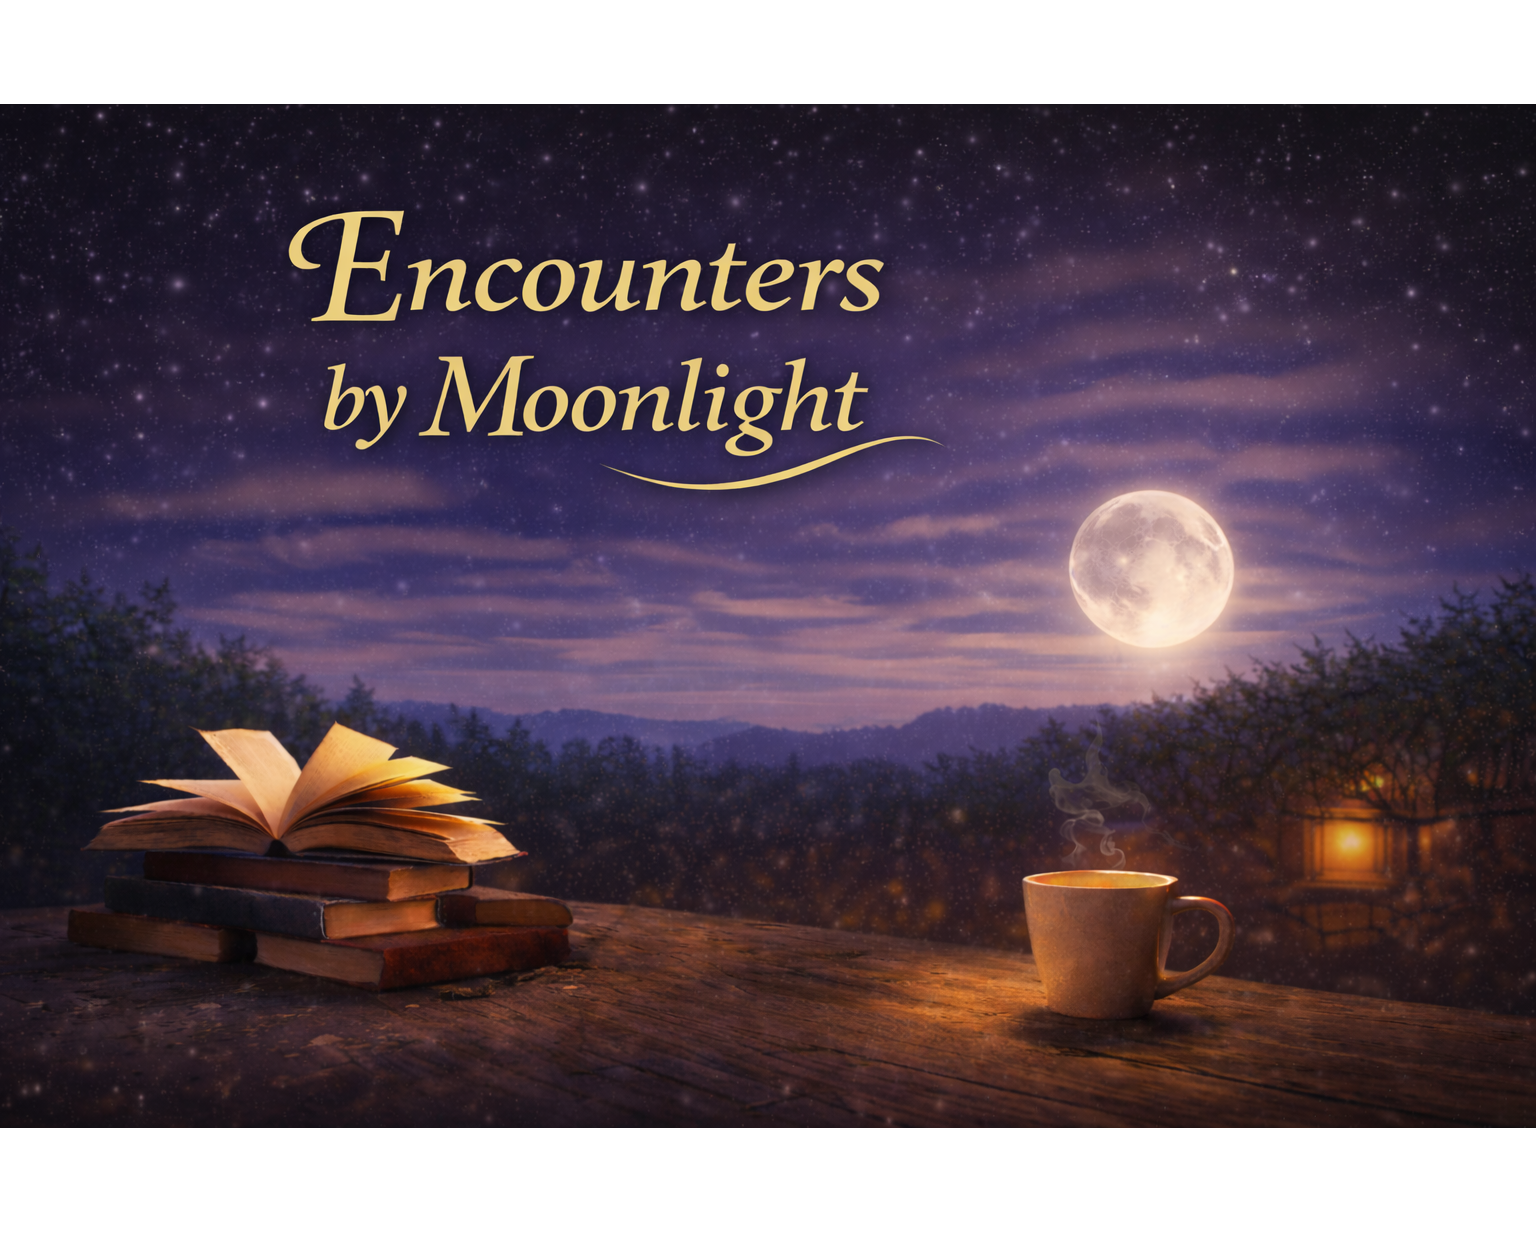
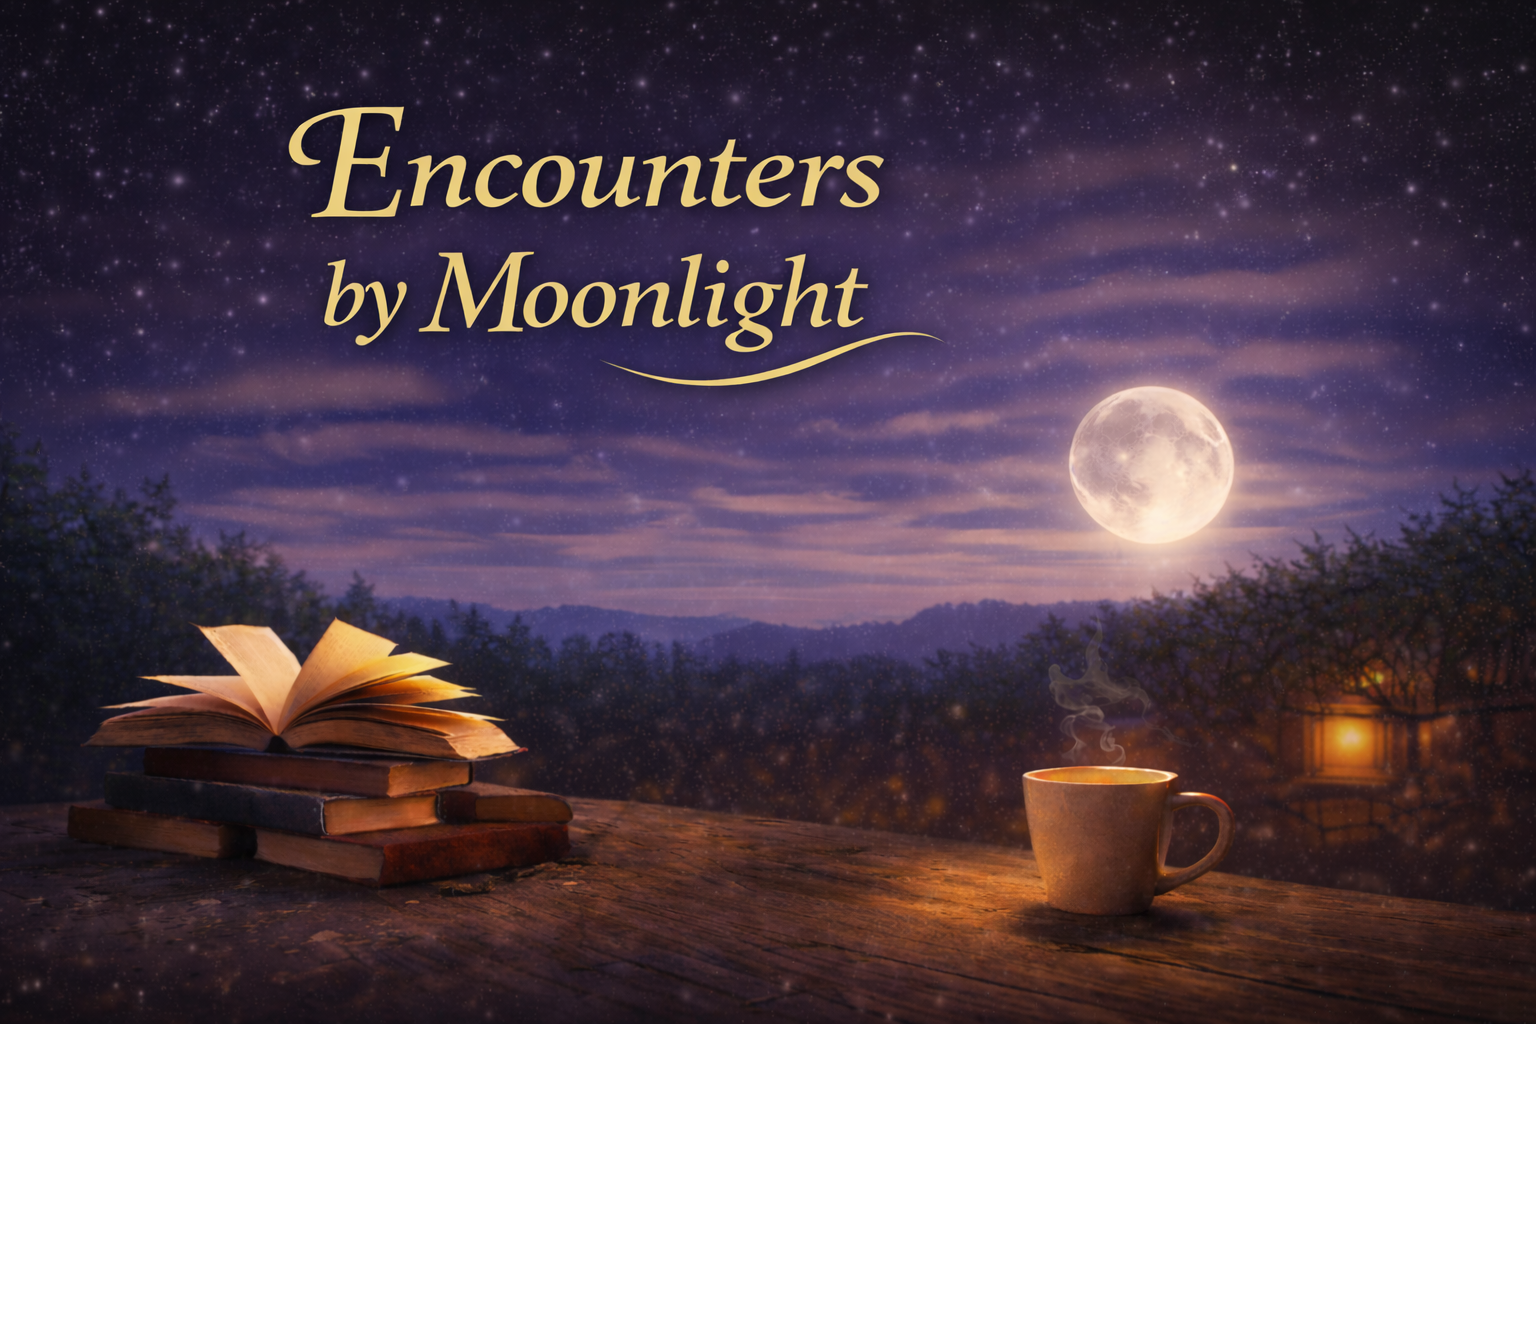
Add files via upload

diff --git a/public/livre-accueil-en.html b/public/livre-accueil-en.html
@@ -8,7 +8,6 @@
 <meta name="description" content="Encounters by Moonlight, a poetic novel by Simon Lero.">
 <link rel="canonical" href="https://simonlero.com/livre-accueil-en.html">
 
-
 <style>
 :root {
   --gold: #c9a24d;
@@ -36,7 +35,7 @@ body {
 }
 
 /* =========================
-   HERO — WEB (DESKTOP)
+   HERO
 ========================= */
 .hero {
   position: relative;
@@ -60,7 +59,7 @@ body {
 }
 
 /* =========================
-   OVERLAY TEXTE — WEB
+   OVERLAY TEXTE
 ========================= */
 .overlay {
   position: absolute;
@@ -71,46 +70,65 @@ body {
   align-items: flex-start;
   padding-left: 8%;
   padding-top: 56vh;
-  background: rgba(0,0,0,0.25);
+
+  background: linear-gradient(
+    to top,
+    rgba(0,0,0,0.55) 0%,
+    rgba(0,0,0,0.25) 35%,
+    rgba(0,0,0,0.05) 60%,
+    rgba(0,0,0,0) 100%
+  );
 }
 
 .overlay p {
-  margin-bottom: 12px;
+  margin-bottom: 14px;
   font-size: 20px;
-  line-height: 1.6;
-  max-width: 620px;
-  text-shadow: 0 1px 4px rgba(0,0,0,0.6);
+  line-height: 1.65;
+  max-width: 640px;
+  letter-spacing: 0.2px;
+  text-shadow: 0 2px 6px rgba(0,0,0,0.65);
 }
 
+/* =========================
+   CTA — CENTRÉ EN BAS
+========================= */
+.cta-wrapper {
+  position: absolute;
+  bottom: 70px;
+  left: 50%;
+  transform: translateX(-50%);
+  z-index: 50;
+}
 
-/* CTA — WEB + MOBILE */
 .cta-line {
-  margin-top: 28px;
   display: inline-flex;
   flex-direction: column;
   align-items: center;
   gap: 6px;
-  padding: 6px 0;
+  padding: 8px 0;
   color: var(--gold);
-  font-size: 19px;
-  letter-spacing: 1px;
+  font-size: 18px;
+  letter-spacing: 1.2px;
   text-decoration: none;
   border-top: 1px solid var(--gold);
   border-bottom: 1px solid var(--gold);
+  transition: opacity 0.3s ease, transform 0.3s ease;
 }
 
 .cta-line:hover {
-  opacity: 0.85;
+  opacity: 0.9;
+  transform: translateY(-1px);
 }
 
-/* CTA — 2e ligne */
 .cta-sub {
   font-size: 12px;
   letter-spacing: 0.8px;
-  opacity: 0.8;
+  opacity: 0.75;
 }
 
-/* LANG — COMMUN */
+/* =========================
+   LANG
+========================= */
 .lang {
   position: fixed;
   top: 18px;
@@ -124,9 +142,15 @@ body {
   font-weight: bold;
 }
 
+/* Ajustement image desktop */
+@media (min-width: 769px) {
+  .hero-img {
+    object-position: center 14%;
+  }
+}
 
 /* ======================================================
-   MOBILE — TOUT EST ICI / RIEN AILLEURS
+   MOBILE
 ====================================================== */
 @media (max-width: 768px) {
 
@@ -135,40 +159,36 @@ body {
   }
 
   .hero {
-    width: 100vw;
     height: 100svh;
   }
 
   .hero-img {
-    width: 100%;
-    height: 100%;
-    object-fit: cover;
     object-position: center 48%;
   }
 
   .overlay {
-    top: auto;
-    bottom: 100px;
-    left: 0;
-    right: 0;
     padding: 0 20px;
     align-items: center;
     text-align: center;
     justify-content: flex-end;
     background: none;
+    bottom: 160px;
   }
 
   .overlay p {
     font-size: 14.5px;
-    line-height: 1.4;
+    line-height: 1.45;
     margin-bottom: 6px;
     max-width: 100%;
     text-shadow: 0 1px 4px rgba(0,0,0,0.85);
   }
 
+  .cta-wrapper {
+    bottom: 28px;
+  }
+
   .cta-line {
     font-size: 15px;
-    margin-top: 24px;
   }
 
   .lang {
@@ -183,13 +203,12 @@ body {
 
 <div class="hero">
 
- <picture>
-  <source srcset="livre-accueil-web-en.png" media="(min-width: 769px)">
-  <img src="livre-accueil-en.png"
-       alt="Encounters by Moonlight"
-       class="hero-img">
-</picture>
-
+  <picture>
+    <source srcset="livre-accueil-web-en.png" media="(min-width: 769px)">
+    <img src="livre-accueil-en.png"
+         alt="Encounters by Moonlight"
+         class="hero-img">
+  </picture>
 
   <div class="overlay">
 
@@ -197,19 +216,20 @@ body {
       <a href="livre-accueil.html">FR</a>
     </div>
 
-   <p>When everything falls silent, something begins…</p>
-<p>Music rises gently, like a breath in the quiet.</p>
-<p>It accompanies an unexpected encounter, suspended between shadow and light.</p>
-<p>A story where words leave a lasting trace.</p>
-
-   <a href="livre.html" class="cta-line">
-  <strong>Discover the book / Buy</strong>
-  <span class="cta-sub">Promo video</span>
-</a>
-
-
+    <p>When everything falls silent, something begins…</p>
+    <p>Music rises gently, like a breath in the quiet.</p>
+    <p>It accompanies an unexpected encounter, suspended between shadow and light.</p>
+    <p>A story where words leave a lasting trace.</p>
 
   </div>
+
+  <div class="cta-wrapper">
+    <a href="livre.html" class="cta-line">
+      <strong>Discover the book / Buy</strong>
+      <span class="cta-sub">Promo video</span>
+    </a>
+  </div>
+
 </div>
 
 </body>

diff --git a/public/livre-accueil.html b/public/livre-accueil.html
@@ -35,7 +35,7 @@ body {
 }
 
 /* =========================
-   HERO — WEB (DESKTOP)
+   HERO
 ========================= */
 .hero {
   position: relative;
@@ -59,7 +59,7 @@ body {
 }
 
 /* =========================
-   OVERLAY TEXTE — WEB
+   OVERLAY TEXTE
 ========================= */
 .overlay {
   position: absolute;
@@ -81,10 +81,18 @@ body {
   text-shadow: 0 1px 4px rgba(0,0,0,0.6);
 }
 
+/* =========================
+   CTA — CENTRÉ EN BAS
+========================= */
+.cta-wrapper {
+  position: absolute;
+  bottom: 70px;
+  left: 50%;
+  transform: translateX(-50%);
+  z-index: 50;
+}
 
-/* CTA — WEB + MOBILE */
 .cta-line {
-  margin-top: 28px;
   display: inline-flex;
   flex-direction: column;
   align-items: center;
@@ -102,14 +110,15 @@ body {
   opacity: 0.85;
 }
 
-/* CTA — 2e ligne */
 .cta-sub {
   font-size: 12px;
   letter-spacing: 0.8px;
   opacity: 0.8;
 }
 
-/* LANG — COMMUN */
+/* =========================
+   LANG
+========================= */
 .lang {
   position: fixed;
   top: 18px;
@@ -123,9 +132,8 @@ body {
   font-weight: bold;
 }
 
-
 /* ======================================================
-   MOBILE — TOUT EST ICI / RIEN AILLEURS
+   MOBILE — TOUT EST ICI
 ====================================================== */
 @media (max-width: 768px) {
 
@@ -139,15 +147,12 @@ body {
   }
 
   .hero-img {
-    width: 100%;
-    height: 100%;
-    object-fit: cover;
     object-position: center 48%;
   }
 
   .overlay {
     top: auto;
-    bottom: 100px;
+    bottom: 160px;
     left: 0;
     right: 0;
     padding: 0 20px;
@@ -165,9 +170,12 @@ body {
     text-shadow: 0 1px 4px rgba(0,0,0,0.85);
   }
 
+  .cta-wrapper {
+    bottom: 28px;
+  }
+
   .cta-line {
     font-size: 15px;
-    margin-top: 24px;
   }
 
   .lang {
@@ -200,13 +208,15 @@ body {
     <p>Elle accompagne une rencontre inattendue, suspendue entre l’ombre et la lumière.</p>
     <p>Un récit où les mots laissent une trace.</p>
 
-    <a href="livre.html" class="cta-line">
-  <strong>Découvrir mon livre / Acheter</strong>
-  <span class="cta-sub">Vidéo promo</span>
-</a>
-
-
   </div>
+
+  <div class="cta-wrapper">
+    <a href="livre.html" class="cta-line">
+      <strong>Découvrir mon livre / Acheter</strong>
+      <span class="cta-sub">Vidéo promo</span>
+    </a>
+  </div>
+
 </div>
 
 </body>
